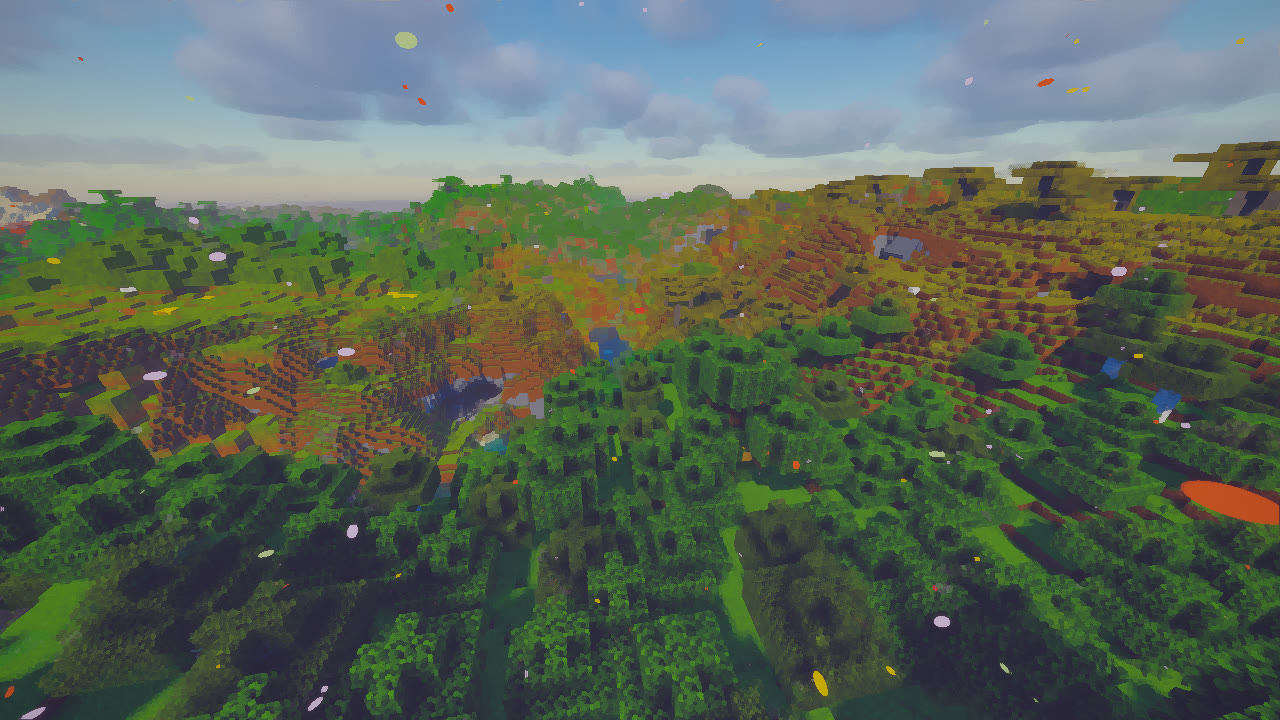
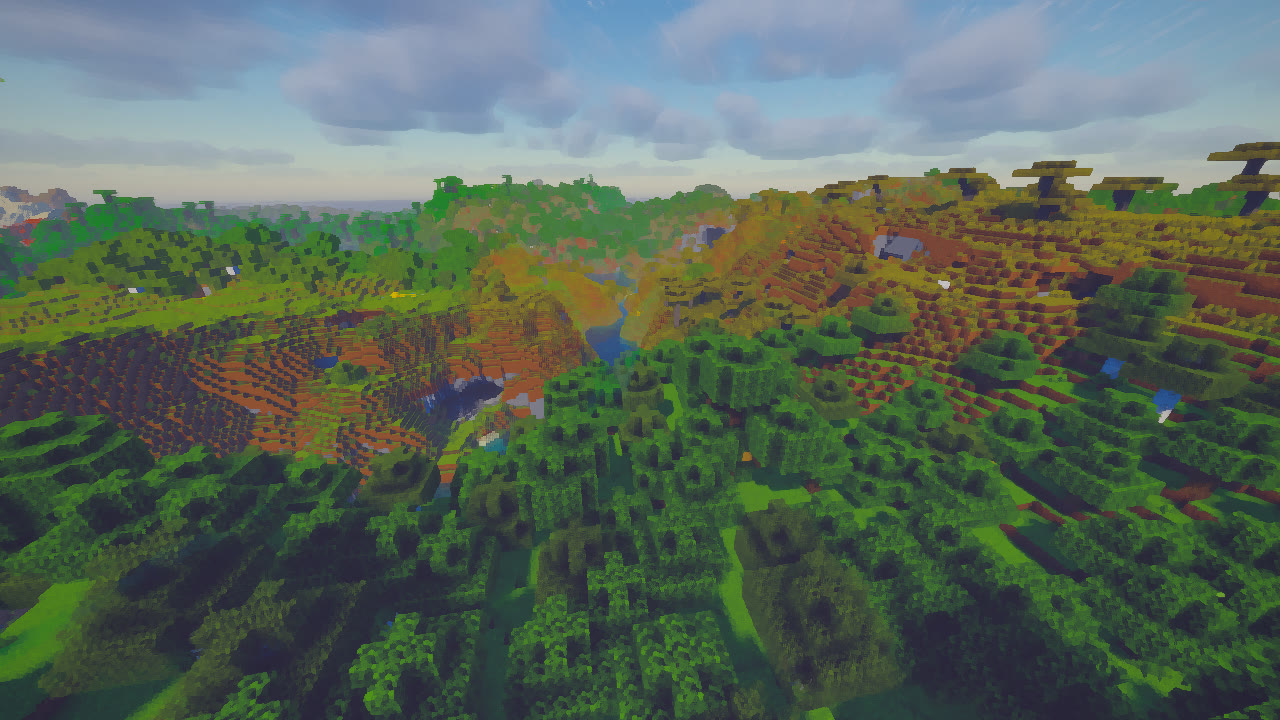
v0.9: Story edition tuned to Ghost of Tsushima references
- dynamic wind-blown leaves: sparse by default, bursts in gusts, many in storms;
  mostly green, red petals at dusk, a little gold; carried sideways by the wind
- cirrus streak clouds (both editions) lit pink/orange around the setting sun
- Tsushima dusk: oranges shift to coral/pink-red, blues to violet,
  soft saturation ceiling against flat clipped colours
- coloured haze: white-gold by day, glowing pink dusk with the sun bleeding into it, violet night
- teal-green storms in the Tsushima grade
- README/screenshots updated

diff --git a/README.md b/README.md
@@ -5,12 +5,12 @@
 | | **ChopzCinema** | **ChopzCinema Story** |
 |---|---|---|
 | Inspiration | *Spider-Man: Brand New Day*: modern blockbuster | *Ghost of Tsushima*: painterly samurai epic |
-| Look | Inky blacks, print film curve, saturated reds & blues, crisp | Lush saturated nature, golden light, soft violet shadows, painted |
+| Look | Inky blacks, print film curve, saturated reds & blues, crisp | Lush nature, hot pink-magenta dusks, violet skies, soft violet shadows, painted |
 | Atmosphere | Clear, physically based haze, dramatic contrast | Golden coloured haze, layered mist, glowing dusks |
-| Extras | Depth of field, anamorphic flare, film grain | Painterly brush filter, falling leaves & petals, strong wind gusts |
+| Extras | Depth of field, anamorphic flare, film grain | Painterly brush filter, wind-blown leaves & petals in gusts, strong wind |
 | Download | `ChopzCinema-vX.Y.zip` | `ChopzCinema-Story-vX.Y.zip` |
 
-> **Status:** v0.8, in development. Tested in-game with Forge 47.4.20, Oculus 1.8.0, Embeddium 0.3.31 and Distant Horizons 3.2.0 in a freshly generated world. Every screenshot below was taken during those tests (F2, default settings, Distant Horizons enabled).
+> **Status:** v0.9, in development. Tested in-game with Forge 47.4.20, Oculus 1.8.0, Embeddium 0.3.31 and Distant Horizons 3.2.0 in a freshly generated world. Every screenshot below was taken during those tests (F2, default settings, Distant Horizons enabled).
 
 ---
 
@@ -38,19 +38,19 @@
 
 ## 🌸 ChopzCinema Story
 
-*The painterly edition: all-in on the Ghost of Tsushima look. Saturated nature, golden light, coloured haze, wind and leaves everywhere.*
+*The painterly edition: all-in on the Ghost of Tsushima look. Saturated nature, magenta dusks with violet skies, glowing coloured haze, and leaves that the wind throws through the air in gusts.*
 
 ![ChopzCinema Story sunset](docs/screenshots/story/sunset.jpg)
-*Dusk in Story: glowing haze, painted light, big warm sun*
+*Dusk in Story: coral-pink clouds, violet sky, the sun bleeding into the haze*
 
 | | |
 |---|---|
 | ![Story day](docs/screenshots/story/day.jpg) | ![Story distant view](docs/screenshots/story/dh_far.jpg) |
 | **Day**: lush greens, golden hills, soft shadows | **Distant view**: layered mist like an ink painting |
 | ![Story forest](docs/screenshots/story/forest.jpg) | ![Story water](docs/screenshots/story/water_sunset.jpg) |
-| **Forest**: falling leaves and petals, painterly filter | **Coast at dusk**: warm haze, drifting leaves |
+| **Morning in the forest**: cirrus streaks, painterly filter | **Coast at dusk**: pink-violet haze, drifting petals |
 | ![Story night](docs/screenshots/story/night.jpg) | ![Story storm](docs/screenshots/story/storm.jpg) |
-| **Night**: blue-violet moonlight, northern lights | **Storm**: soft, misty, painted |
+| **Night**: blue-violet moonlight, northern lights | **Storm**: teal-green mist, leaves flying in the wind |
 | ![Story water](docs/screenshots/story/water.jpg) | ![Story nether](docs/screenshots/story/nether.jpg) |
 | **Water** | **Nether**: warm and painterly |
 
@@ -69,9 +69,11 @@
 
 ### 🌸 Story look (on by default in Story, optional in Cinema)
 - **Painterly filter**: an edge-preserving brush-stroke filter that turns surfaces into painted colour areas
-- **Falling leaves & petals**: cherry petals, red maple and golden leaves drifting on the wind, anchored in the world
+- **Wind-blown leaves & petals**: sparse most of the time, bursts when a gust rolls through, many in storms. Mostly green leaves, red petals at dusk, a little gold. Anchored in the world.
 - **Wind gusts**: visible gust fronts roll across grass and trees and bend everything one way
-- **Golden coloured haze**: warm aerial perspective by day, glowing orange at dusk, violet at night
+- **Coloured haze**: soft white-gold haze by day, the sun bleeding into glowing pink haze at dusk, violet at night
+- **Tsushima dusks**: oranges turn hot pink-red, blue skies turn violet, with a soft saturation ceiling so colours stay rich without clipping
+- **Teal-green storms**
 
 ### ☀ Light & Shadow
 - Soft shadows that get softer the further they fall from the caster (Vogel PCF)
@@ -84,6 +86,7 @@
 - **Physically based sky** (Rayleigh, Mie and ozone) with real sunrises and sunsets
 - **Golden hour**: warm glow around a low sun and golden light in the haze
 - **Volumetric clouds** with silver linings that get denser and darker in rain
+- **Cirrus streak clouds**: thin high-altitude streaks that light up pink and orange around the setting sun
 - **Height fog**, distant haze and **morning/evening mist**
 - **God rays** in the fog with real shadows
 
@@ -172,7 +175,7 @@ The menu is available in **English** and **German**:
 Both editions are built from the same `shaders/` folder. The Story edition only changes default values in `shaders/lib/settings.glsl`.
 
 ```
-python3 tools/build_packs.py v0.8          # -> dist/ChopzCinema-v0.8.zip, dist/ChopzCinema-Story-v0.8.zip
+python3 tools/build_packs.py v0.9          # -> dist/ChopzCinema-v0.9.zip, dist/ChopzCinema-Story-v0.9.zip
 python3 tools/gen_wrappers.py               # regenerate world0/world-1/world1 program wrappers
 ```
 
